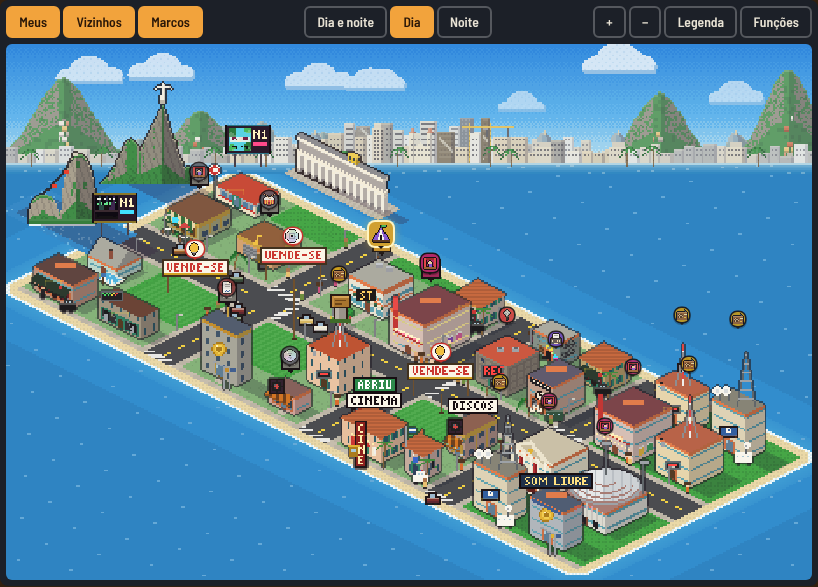
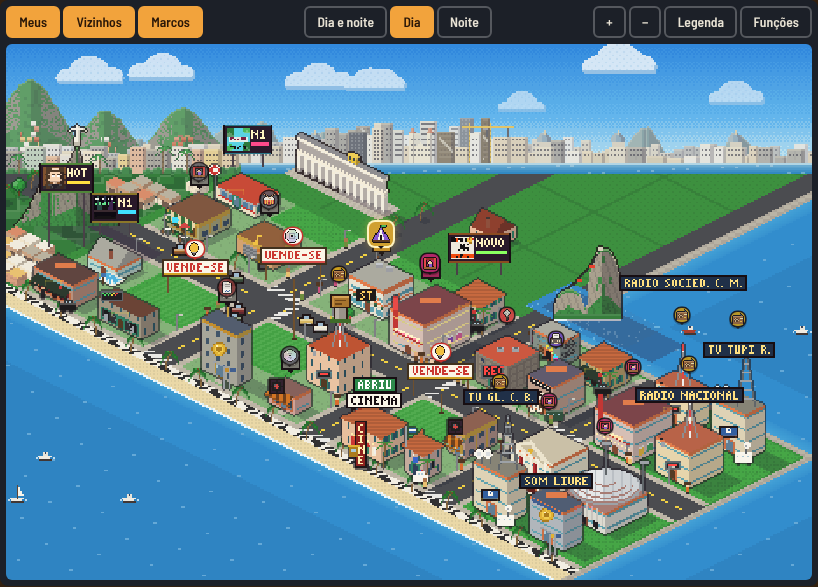
PRED: capturas depois da junção; chaminé vitoriana dentro do telhado
Claude-Session: https://claude.ai/code/session_011XM6gk992aeaeJ7tjK8svn

diff --git a/src/ui/pixel/campus18px.ts b/src/ui/pixel/campus18px.ts
@@ -191,7 +191,7 @@ function accessories(t: T, L: T, b: Bld18, st: Style18, gx: number, gy: number, 
   const [cx, cy] = roofTop(gx, gy, w, d, H);
   const m = MAT[st];
   if (st === 'victorian' || st === 'brick') {
-    for (let i = 0; i < Math.min(3, w); i++) { const [x, y] = iso(gx + 0.6 + i * 1.3, gy + 0.5); t.rect(x, y - H - 5, 2, 5, C('#6a3a2a')); t.rect(x, y - H - 6, 2, 1, C('#3a3030')); }
+    for (let i = 0; i < 3 && 0.6 + i * 1.3 < w - 0.4; i++) { const [x, y] = iso(gx + 0.6 + i * 1.3, gy + 0.5); /* R31 (PRED): chaminé só em cima do telhado */ t.rect(x, y - H - 5, 2, 5, C('#6a3a2a')); t.rect(x, y - H - 6, 2, 1, C('#3a3030')); }
     if (st === 'brick' && H > 14) tank27(t, cx + 5, cy);
   } else if (st === 'deco' && H > 18) {
     t.line(cx, cy - 4, cx, cy - 4 - Math.min(16, H / 3), m.trim);

diff --git a/docs/r31/pred.md b/docs/r31/pred.md
@@ -93,7 +93,7 @@ própria; banco não é lugar do bairro) — ficam fora.
 ## Prova
 
 - `docs/r31/shots/onda4-pred-galeria-<época>.png` — os 55 tipos lado a lado em cada uma das 6 épocas.
-- `docs/r31/shots/onda4-pred-mapa-{londres-1965,rio-1975,ny-2012,sp-2036}-{antes,depois}.png`.
+- `docs/r31/shots/onda4-pred-mapa-{londres-1965,rio-1975,ny-2012,sp-2036}-{antes,depois}.png` (o "antes" foi tirado antes da junção com a GEO; a diferença de chão/água é dela). Conserto junto: as chaminés vitorianas não saem mais para fora do telhado em prédio estreito.
 - `tests/r31-pred.test.ts`: tabelas cobrem todo lugar (BIZ31, RKINDS31, nb19, place27); desenho sem erro e com
   pixels em 6 épocas × 4 cidades; assinatura de pixels: quaisquer dois tipos diferem em > 4% dos pixels opacos
   em toda época (ou têm silhueta de tamanho diferente).
